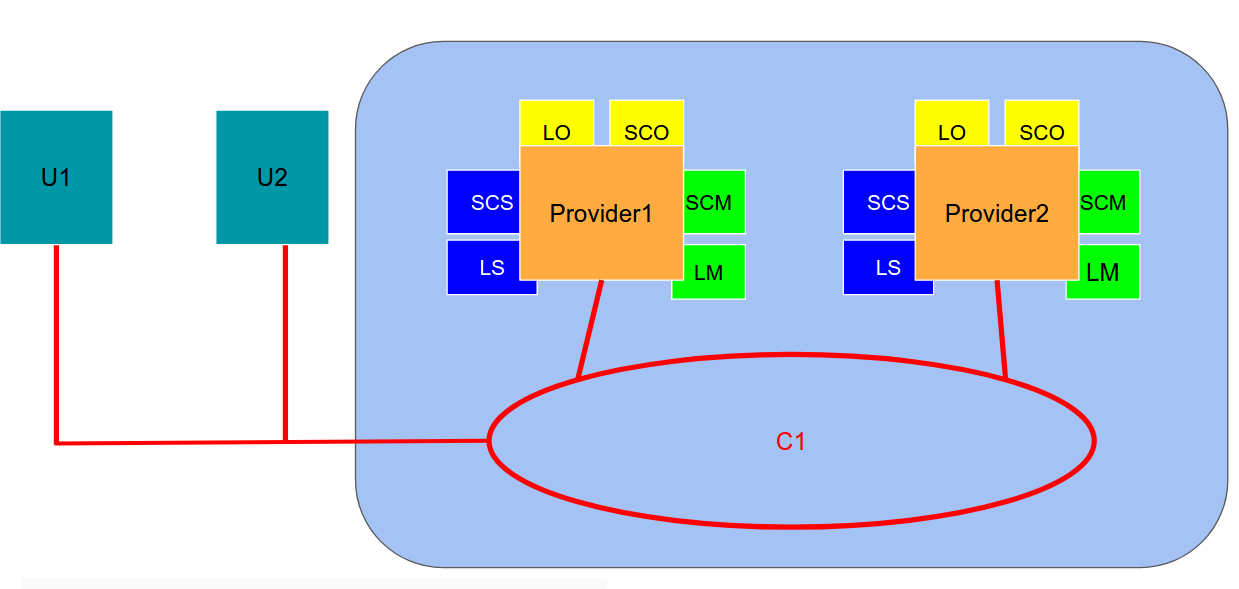
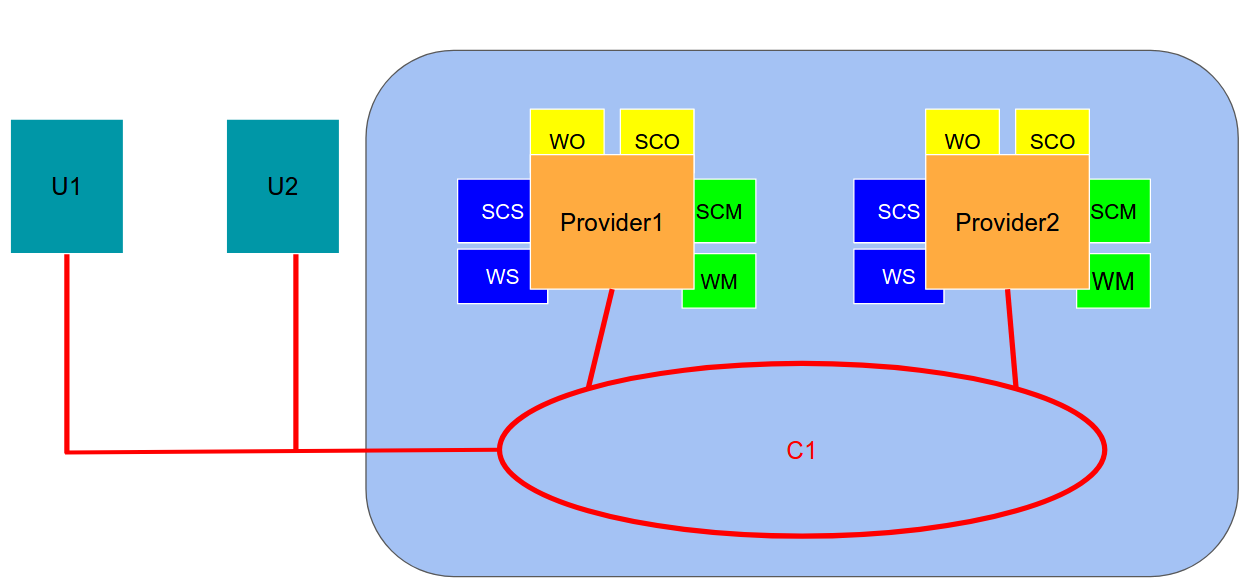
network design

diff --git a/docs/Design.md b/docs/Design.md
@@ -12,11 +12,26 @@ Then they will be able to rent access to other services belonging to the network
 Users will not be able to convert HyperCash into real money.
 
 ## Network design
-- 1 peer for each SP. Each peer on the same channel.
-- 1 ordering node for each SP, consensus reached with Raft.
+The network is composed by one application channel on which are deployed three chaincodes (one related to subscriptions, one related to money and one which controls the rent offers). Each service provider will have a peer which executes the three smart contracts (SCS, SCM and SCO respectively) and keeps an updated version of the three world states (WS, WM and WO). The endorsement policies are different based on the type of the transaction. Each provider will have also 1 ordering nodes, and they will reach consensus through Raft.
+The user will connect to the network through a web app which is store in the customer device. Then he can check the state of its own wallet, issue a new offer, read the offer world state or rent a subscription.
 
-Example with 2 SP and 2 users:
+Example network with 2 SP and 2 users:
 ![general schema](../img/general_schema.png "General schema of the network")
+
+Example of insertion of subscription by the user:
+![Subscription insertion](../img/subscription_schema.png "Subscription insertion")
+
+When a user subscribes to a new service, if it chooses to share the subscription within the network, the Service Provider will issue the new subscription to the channel.
+All the other peer in the network will add it to their ledger, if the data is valid.
+
+Example of insertion of offer by the user:
+![Offer insertion](../img/offer_schema.png "Offer insertion")
+
+When a user wants to add an offer to the ledger it requests a write to the ledger, if the offer is legitimate the service providers approves it and adds it to LO (Ledger of Offers)
+
+
+
+
 
 ## Application Design
 
